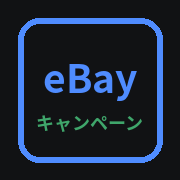
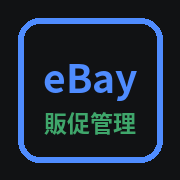
eBayキャンペーン管理：名前を「eBay販促管理」に変更
Claude-Session: https://claude.ai/code/session_01MzUTQPme21LPJZVJ4e69Yh

Changed region(s): [[0.1944, 0.6111, 0.8056, 0.75]]

diff --git a/campaign/index.html b/campaign/index.html
@@ -6,12 +6,12 @@
 <meta name="apple-mobile-web-app-capable" content="yes">
 <meta name="mobile-web-app-capable" content="yes">
 <meta name="apple-mobile-web-app-status-bar-style" content="black-translucent">
-<meta name="apple-mobile-web-app-title" content="eBayキャンペーン">
+<meta name="apple-mobile-web-app-title" content="eBay販促管理">
 <meta name="theme-color" content="#111214">
 <link rel="manifest" href="manifest.webmanifest">
 <link rel="apple-touch-icon" href="icon-180.png">
 <link rel="icon" href="icon-192.png">
-<title>ReKiL eBayキャンペーン管理</title>
+<title>ReKiL eBay販促管理</title>
 <style>
 :root{--bg:#111214;--card:#1c1d21;--field:#25272c;--ink:#f2f2f3;--sub:#9a9ca3;--line:#2f3137;--acc:#4f8cff;--warn:#d98a2b;--ok:#3fa66b;--danger:#ff6b61;color-scheme:dark}
 *{box-sizing:border-box}
@@ -87,7 +87,7 @@ label{display:block;font-size:12px;color:var(--sub);margin:8px 0 3px}
 </head>
 <body>
 <header>
-  <h1>eBayキャンペーン管理 <span class="sync" id="sync"></span></h1>
+  <h1>eBay販促管理 <span class="sync" id="sync"></span></h1>
   <div class="tabs">
     <button data-f="active" class="on">進行中</button>
     <button data-f="end">終了</button>
@@ -145,7 +145,7 @@ label{display:block;font-size:12px;color:var(--sub);margin:8px 0 3px}
 </div></div>
 <div class="toast" id="toast"></div>
 <div id="lock" hidden><form id="lockForm">
-  <h1>eBayキャンペーン管理</h1>
+  <h1>eBay販促管理</h1>
   <p class="meta" id="lockMsg"></p>
   <input id="passIn" type="password" inputmode="numeric" autocomplete="current-password" placeholder="暗証番号">
   <button class="btn main" id="lockGo" type="submit">開く</button>
@@ -154,7 +154,7 @@ label{display:block;font-size:12px;color:var(--sub);margin:8px 0 3px}
 <script>
 /* ▼ Apps Script をデプロイしたときの「ウェブアプリのURL」 */
 const API_URL = "https://script.google.com/macros/s/AKfycby3F-MYmPDbMyj3CC4sR2WC2KwtC73femnvFT4XG67PgCpaQjw9Z5Dp6qRk_KgknGrc/exec";
-const APP_VERSION = "2026-11-13-2";
+const APP_VERSION = "2026-11-13-3";
 
 const $=id=>document.getElementById(id);
 const C_FIELDS=["id","name","status","apply_deadline","start_jst","end_jst","coupon_code","offer","cashback_rate","cashback_cap_usd","budget_usd","min_price_usd","target_items","excluded_items","conditions","cashback_due","inquiry_tag","orders","sales_usd","discount_usd","fees_usd","cashback_expected_usd","cashback_received_usd","cashback_received_date","note","result_pdf"];
